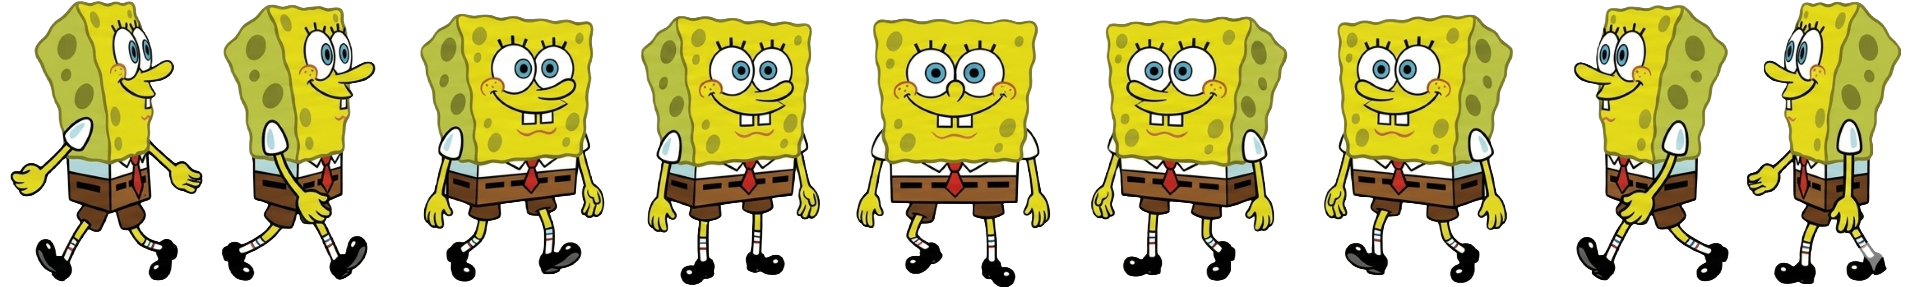
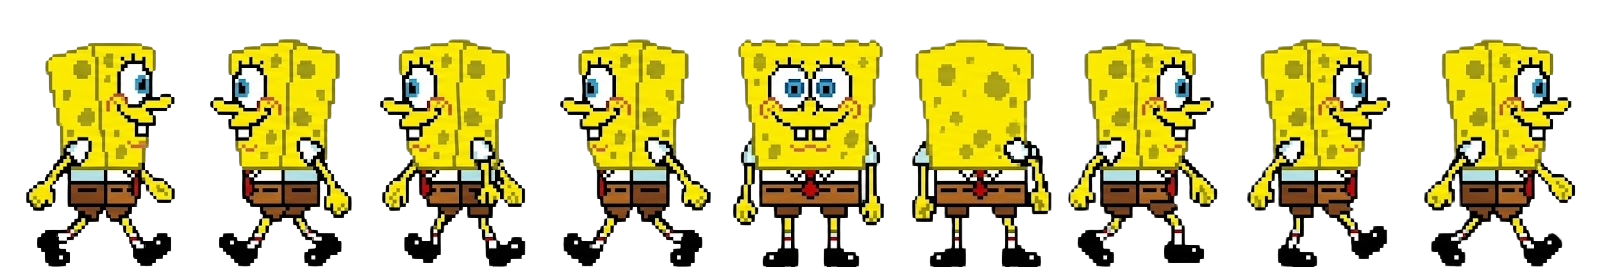
nouveau bob qui marche mieux

diff --git a/src/js/niveau2.js b/src/js/niveau2.js
@@ -1,0 +1,230 @@
+//fonction tirer( ), prenant comme paramètre l'auteur du tir
+function tirer(player) {
+        var coefDir;
+	    if (player.direction == 'left') { coefDir = -1; } else { coefDir = 1 }
+        // on crée la balle a coté du joueur
+        var bullet = groupeBullets.create(player.x + (25 * coefDir), player.y - 4, 'bullet');
+        // parametres physiques de la balle.
+        bullet.setCollideWorldBounds(true);
+        // on acive la détection de l'evenement "collision au bornes"
+        bullet.body.onWorldBounds = true; 
+        bullet.body.allowGravity =false;
+        bullet.setVelocity(1000 * coefDir, 0); // vitesse en x et en y
+}  
+
+// fonction déclenchée lorsque uneBalle et uneCible se superposent
+function hit (bullet, cible) {
+  cible.pointsVie--;
+  if (cible.pointsVie==0) {
+    cible.destroy(); 
+  } 
+   bullet.destroy();
+}  
+
+export default class niveau2 extends Phaser.Scene {
+  // constructeur de la classe
+  constructor() {
+    super({
+      key: "niveau2" //  ici on précise le nom de la classe en tant qu'identifiant
+    });
+  }
+
+  
+
+  preload() {
+  // tous les assets du jeu sont placés dans le sous-répertoire src/assets/
+  this.load.image("img_ciel", "src/assets/sky.png");
+  this.load.image("img_plateforme", "src/assets/platform.png");
+  this.load.spritesheet("img_perso", "src/assets/dude.png", {
+    frameWidth: 32,
+    frameHeight: 48
+  });
+
+// chargement de l'image balle.png
+ this.load.image("bullet", "src/assets/balle.png"); 
+ // chargement de l'image cible.png
+ this.load.image("cible", "src/assets/cible.png"); 
+  }
+
+  create() {
+    /***********************************************************************/
+    /** VARIABLES GLOBALES 
+    /***********************************************************************/
+    var player; // désigne le sprite du joueur
+    var groupe_plateformes; // contient toutes les plateformes
+    var clavier; // pour la gestion du clavier
+    var boutonFeu; 
+    // mise en place d'une variable groupeBullets
+    var groupeBullets; 
+    // mise en place d'une variable groupeCibles
+    var groupeCibles;  
+    var cursors;
+    var cibles;
+
+    /*************************************
+   *  CREATION DU MONDE + PLATEFORMES  *
+   *************************************/
+
+  // On ajoute une simple image de fond, le ciel, au centre de la zone affichée (400, 300)
+  // Par défaut le point d'ancrage d'une image est le centre de cette derniere
+  this.add.image(400, 300, "img_ciel");
+
+  // la création d'un groupes permet de gérer simultanément les éléments d'une meme famille
+  //  Le groupe groupe_plateformes contiendra le sol et deux platesformes sur lesquelles sauter
+  // notez le mot clé "staticGroup" : le static indique que ces élements sont fixes : pas de gravite,
+  // ni de possibilité de les pousser.
+  groupe_plateformes = this.physics.add.staticGroup();
+  // une fois le groupe créé, on va créer les platesformes , le sol, et les ajouter au groupe groupe_plateformes
+
+  // l'image img_plateforme fait 400x32. On en met 2 à coté pour faire le sol
+  // la méthode create permet de créer et d'ajouter automatiquement des objets à un groupe
+  // on précise 2 parametres : chaque coordonnées et la texture de l'objet, et "voila!"
+  groupe_plateformes.create(200, 584, "img_plateforme");
+  groupe_plateformes.create(600, 584, "img_plateforme");
+
+  //  on ajoute 3 platesformes flottantes
+  groupe_plateformes.create(600, 450, "img_plateforme");
+  groupe_plateformes.create(50, 300, "img_plateforme");
+  groupe_plateformes.create(750, 270, "img_plateforme");
+
+  /****************************
+   *  CREATION DU PERSONNAGE  *
+   ****************************/
+
+  // On créée un nouveeau personnage : player
+  player = this.physics.add.sprite(100, 450, "img_perso");
+
+  //  propriétées physiqyes de l'objet player :
+  player.setBounce(0.2); // on donne un petit coefficient de rebond
+  player.setCollideWorldBounds(true); // le player se cognera contre les bords du monde
+
+  /***************************
+   *  CREATION DES ANIMATIONS *
+   ****************************/
+  // dans cette partie, on crée les animations, à partir des spritesheet
+  // chaque animation est une succession de frame à vitesse de défilement défini
+  // une animation doit avoir un nom. Quand on voudra la jouer sur un sprite, on utilisera la méthode play()
+  // creation de l'animation "anim_tourne_gauche" qui sera jouée sur le player lorsque ce dernier tourne à gauche
+  this.anims.create({
+    key: "anim_tourne_gauche", // key est le nom de l'animation : doit etre unique poru la scene.
+    frames: this.anims.generateFrameNumbers("img_perso", { start: 0, end: 3 }), // on prend toutes les frames de img perso numerotées de 0 à 3
+    frameRate: 10, // vitesse de défilement des frames
+    repeat: -1 // nombre de répétitions de l'animation. -1 = infini
+  });
+
+  // creation de l'animation "anim_tourne_face" qui sera jouée sur le player lorsque ce dernier n'avance pas.
+  this.anims.create({
+    key: "anim_face",
+    frames: [{ key: "img_perso", frame: 4 }],
+    frameRate: 20
+  });
+
+  // creation de l'animation "anim_tourne_droite" qui sera jouée sur le player lorsque ce dernier tourne à droite
+  this.anims.create({
+    key: "anim_tourne_droite",
+    frames: this.anims.generateFrameNumbers("img_perso", { start: 5, end: 8 }),
+    frameRate: 10,
+    repeat: -1
+  });
+
+  /***********************
+   *  CREATION DU CLAVIER *
+   ************************/
+  // ceci permet de creer un clavier et de mapper des touches, connaitre l'état des touches
+  clavier = this.input.keyboard.createCursorKeys();
+
+  /*****************************************************
+   *  GESTION DES INTERATIONS ENTRE  GROUPES ET ELEMENTS *
+   ******************************************************/
+
+  //  Collide the player and the groupe_etoiles with the groupe_plateformes
+  this.physics.add.collider(player, groupe_plateformes);
+  player.direction = 'right'; 
+  // création du clavier - code déja présent sur le jeu de départ
+cursors = this.input.keyboard.createCursorKeys();
+
+// affectation de la touche A à boutonFeu
+boutonFeu = this.input.keyboard.addKey('A'); 
+// création d'un groupe d'éléments vide
+groupeBullets = this.physics.add.group();  
+
+// ajout de 8 cibles espacées de 110 pixels
+ cibles = this.physics.add.group({
+            key: 'cible',
+            repeat: 7,
+            setXY: { x: 24, y: 0, stepX: 107 }
+        });  
+
+// ajout du modèle de collision entre cibles et plate-formes
+        this.physics.add.collider(cibles, groupe_plateformes); 
+  }
+
+  update() {
+    if (clavier.left.isDown) {
+    player.direction = 'left';
+    player.setVelocityX(-160);
+    player.anims.play("anim_tourne_gauche", true);
+  } else if (clavier.right.isDown) {
+    player.direction = 'right';
+    player.setVelocityX(160);
+    player.anims.play("anim_tourne_droite", true);
+  } else {
+    player.setVelocityX(0);
+    player.anims.play("anim_face");
+  }
+
+  if (clavier.up.isDown && player.body.touching.down) {
+    player.setVelocityY(-330);
+  }
+
+// déclenchement de la fonction tirer() si appui sur boutonFeu 
+if ( Phaser.Input.Keyboard.JustDown(boutonFeu)) {
+   tirer(player);
+}  
+this.physics.add.overlap(groupeBullets, cibles, hit, null,this);
+
+// modification des cibles créées
+cibles.children.iterate(function (cibleTrouvee) {
+   // définition de points de vie
+   cibleTrouvee.pointsVie=Phaser.Math.Between(1, 5);;
+   // modification de la position en y
+   cibleTrouvee.y = Phaser.Math.Between(10,250);
+   // modification du coefficient de rebond
+   cibleTrouvee.setBounce(1);
+});  
+
+// instructions pour les objets surveillés en bord de monde
+this.physics.world.on("worldbounds", function(body) {
+        // on récupère l'objet surveillé
+        var objet = body.gameObject;
+        // s'il s'agit d'une balle
+        if (groupeBullets.contains(objet)) {
+            // on le détruit
+            objet.destroy();
+        }
+    });
+  }
+
+
+//fonction tirer( ), prenant comme paramètre l'auteur du tir
+function tirer(player) {
+        var coefDir;
+	    if (player.direction == 'left') { coefDir = -1; } else { coefDir = 1 }
+        // on crée la balle a coté du joueur
+        var bullet = groupeBullets.create(player.x + (25 * coefDir), player.y - 4, 'bullet');
+        // parametres physiques de la balle.
+        bullet.setCollideWorldBounds(true);
+        // on acive la détection de l'evenement "collision au bornes"
+        bullet.body.onWorldBounds = true; 
+        bullet.body.allowGravity =false;
+        bullet.setVelocity(1000 * coefDir, 0); // vitesse en x et en y
+}  
+
+// fonction déclenchée lorsque uneBalle et uneCible se superposent
+function hit (bullet, cible) {
+  cible.pointsVie--;
+  if (cible.pointsVie==0) {
+    cible.destroy(); 
+  } 
+   bullet.destroy();
+}  

diff --git a/src/js/piece4.js b/src/js/piece4.js
@@ -13,8 +13,8 @@ export default class piece4 extends Phaser.Scene {
     this.load.image("img_ciel", "src/assets/sky.png");
     this.load.image("img_plateforme", "src/assets/platform.png");
     this.load.spritesheet("img_perso", "src/assets/dude.png", {
-      frameWidth: 212,
-      frameHeight: 287
+      frameWidth: 173,
+      frameHeight: 228
     });
 
     // chargement de l'image balle.png
@@ -74,7 +74,7 @@ export default class piece4 extends Phaser.Scene {
     // creation de l'animation "anim_tourne_gauche" qui sera jouée sur le player lorsque ce dernier tourne à gauche
     this.anims.create({
       key: "anim_tourne_gauche", // key est le nom de l'animation : doit etre unique poru la scene.
-      frames: this.anims.generateFrameNumbers("img_perso", { start: 5, end: 8 }), // on prend toutes les frames de img perso numerotées de 0 à 3
+      frames: this.anims.generateFrameNumbers("img_perso", { start: 1, end: 3 }), // on prend toutes les frames de img perso numerotées de 0 à 3
       frameRate: 10, // vitesse de défilement des frames
       repeat: -1 // nombre de répétitions de l'animation. -1 = infini
     });
@@ -89,7 +89,7 @@ export default class piece4 extends Phaser.Scene {
     // creation de l'animation "anim_tourne_droite" qui sera jouée sur le player lorsque ce dernier tourne à droite
     this.anims.create({
       key: "anim_tourne_droite",
-      frames: this.anims.generateFrameNumbers("img_perso", { start: 0, end: 3 }),
+      frames: this.anims.generateFrameNumbers("img_perso", { start: 6, end: 8 }),
       frameRate: 10,
       repeat: -1
     });

diff --git a/src/js/selection.js b/src/js/selection.js
@@ -27,8 +27,8 @@ export default class selection extends Phaser.Scene {
     this.load.image("img_ciel", "src/assets/sky.png");
     this.load.image("img_plateforme", "src/assets/platform.png");
     this.load.spritesheet("img_perso", "src/assets/dude.png", {
-      frameWidth: 212,
-      frameHeight: 287
+      frameWidth: 173,
+      frameHeight: 228
     });
     this.load.image("img_porte1", "src/assets/door1.png");
     this.load.image("img_porte2", "src/assets/door2.png");
@@ -104,8 +104,8 @@ export default class selection extends Phaser.Scene {
     this.anims.create({
       key: "anim_tourne_gauche", // key est le nom de l'animation : doit etre unique poru la scene.
       frames: this.anims.generateFrameNumbers("img_perso", {
-        start: 5,
-        end: 8
+        start: 1,
+        end: 3
       }), // on prend toutes les frames de img perso numerotées de 0 à 3
       frameRate: 10, // vitesse de défilement des frames
       repeat: -1 // nombre de répétitions de l'animation. -1 = infini
@@ -122,8 +122,8 @@ export default class selection extends Phaser.Scene {
     this.anims.create({
       key: "anim_tourne_droite",
       frames: this.anims.generateFrameNumbers("img_perso", {
-        start: 0,
-        end: 3
+        start: 6,
+        end: 8
       }),
       frameRate: 10,
       repeat: -1
